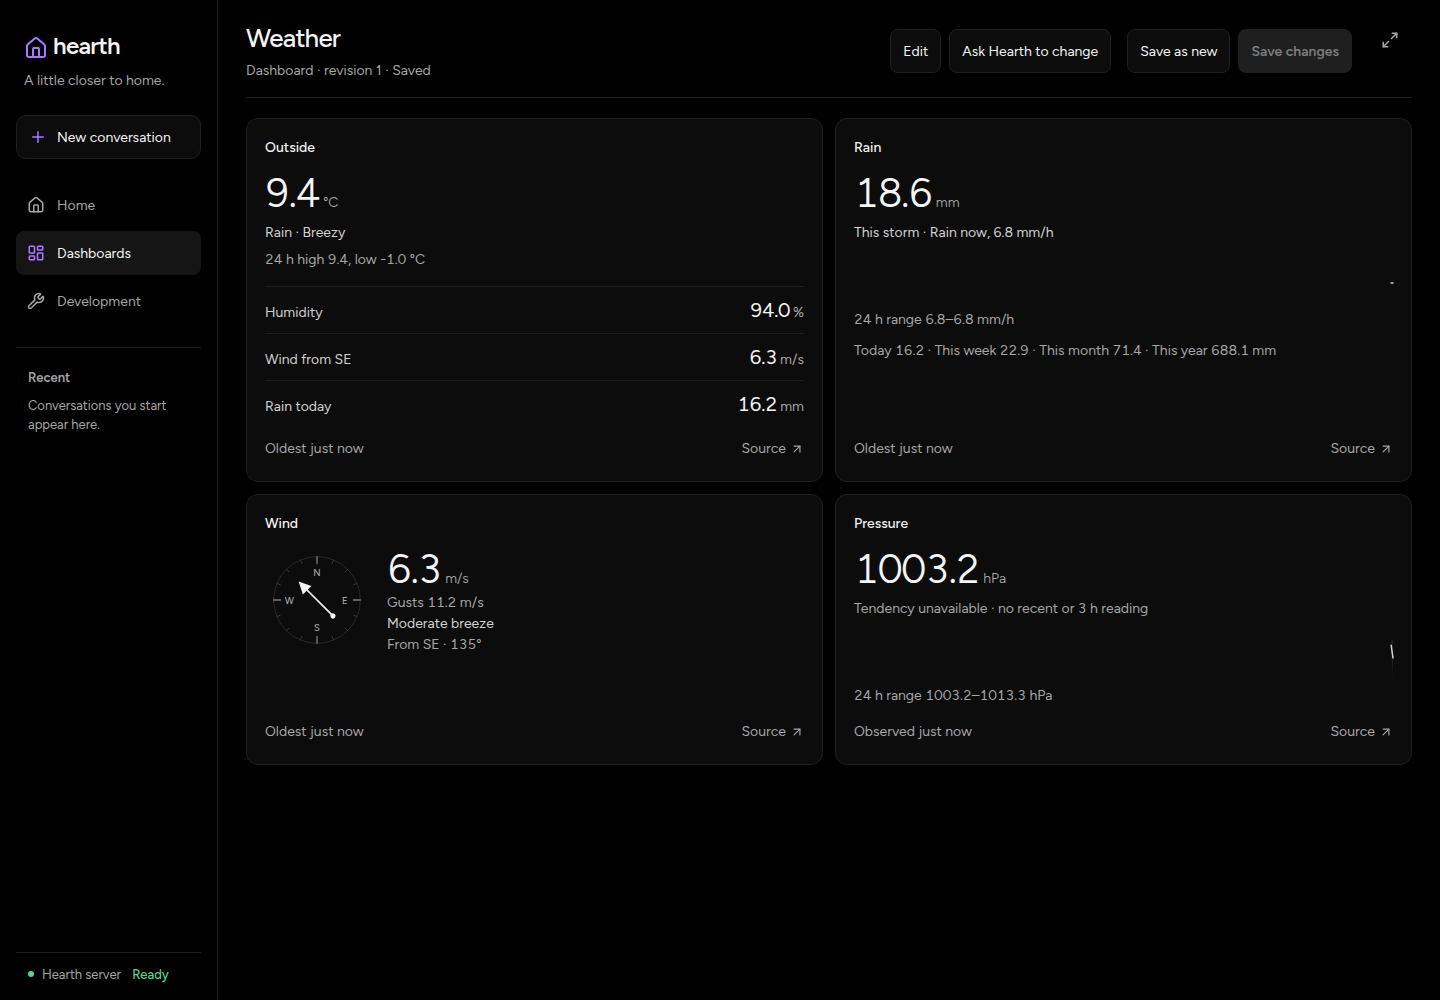
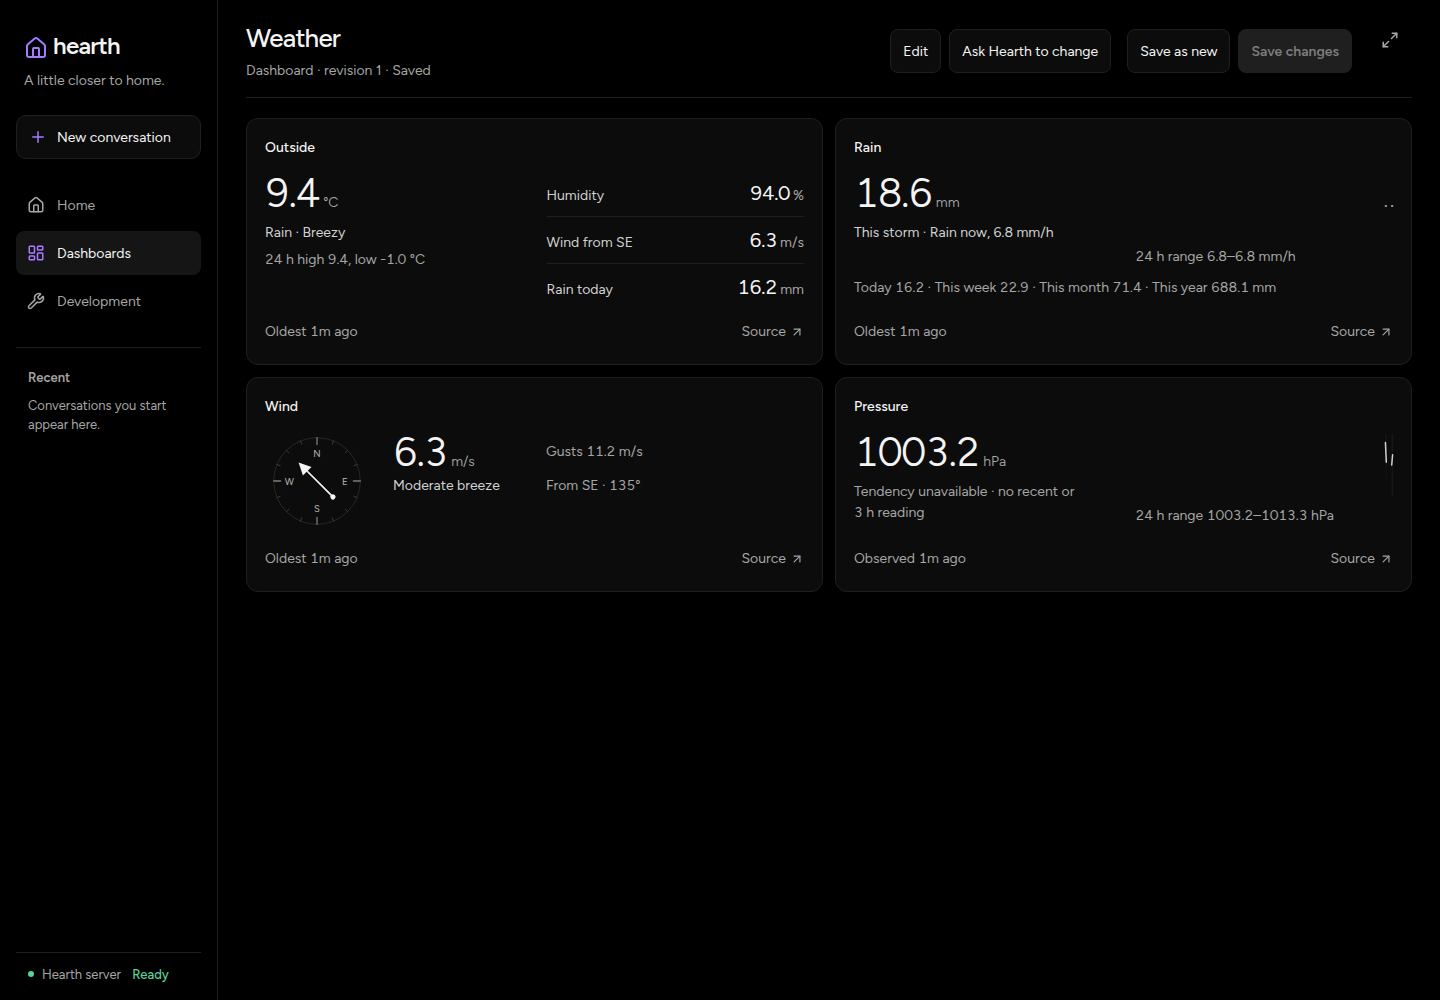
fix(views): use wide weather cards for side-by-side readings
Split lead readings and supporting details at 460px of card content width. Keep stacked reading order on narrow cards and reserve Wind's intrinsic value width before assigning detail space. Weather trends grow within their detail zone; shared Metric charts and aligned footers remain unchanged.

diff --git a/web/src/index.css b/web/src/index.css
@@ -482,7 +482,11 @@
 .view-switch-group p[data-failed] { color:var(--error); }
 .view-editor label.view-checkbox { display:flex; align-items:center; gap:8px; }
 .view-editor .view-checkbox input { width:auto; }
-/* Weather cards: words and derived values sit under the 40px reading; other readings follow as compact rows. */
+/*
+ * Weather cards: words and derived values sit under the 40px reading; other readings follow as compact rows.
+ * At a 460px content width the details move beside the lead into the right half, so a card uses its
+ * width instead of its height and cards in one grid row end at similar heights.
+ */
 .view-weather { container-type:inline-size; }
 .view-weather .view-card-body { display:flex; flex-direction:column; gap:6px; }
 .view-weather-conditions { color:var(--gray-9); font-size:14px; line-height:1.5; text-wrap:balance; }
@@ -494,9 +498,15 @@
 .view-weather-rows .view-rows { margin-block:0 -4px; }
 .view-weather-slot-status { display:flex; flex-wrap:wrap; align-items:baseline; gap:2px 8px; color:var(--quiet); font-size:14px; line-height:1.5; }
 .view-weather-slot-status .view-status { flex-basis:100%; }
-.view-weather-wind-lead { display:flex; align-items:center; gap:18px; }
-.view-weather-wind-lead > div { min-width:0; }
-.view-weather-compass { flex-shrink:0; width:104px; height:104px; overflow:visible; }
+.view-weather-zones, .view-weather-main, .view-weather-aside { display:flex; flex-direction:column; gap:6px; min-width:0; }
+.view-weather-wind { display:grid; grid-template-columns:minmax(0,1fr); grid-template-areas:"reading" "gust" "force" "direction" "rows"; gap:0 18px; }
+.view-weather-wind:has(> .view-weather-compass) { grid-template-columns:auto minmax(0,1fr); grid-template-areas:"compass reading" "compass gust" "compass force" "compass direction" "rows rows"; }
+.view-weather-wind-reading { grid-area:reading; min-width:0; }
+.view-weather-wind-gust { grid-area:gust; }
+.view-weather-wind-force { grid-area:force; }
+.view-weather-wind-direction { grid-area:direction; }
+.view-weather-wind-rows { grid-area:rows; }
+.view-weather-compass { grid-area:compass; align-self:center; width:104px; height:104px; overflow:visible; }
 .view-weather-compass-ring { fill:none; stroke:var(--gray-4); stroke-width:1; }
 .view-weather-compass-major { stroke:var(--gray-7); stroke-width:1.5; stroke-linecap:round; }
 .view-weather-compass-minor { stroke:var(--gray-5); stroke-width:1; stroke-linecap:round; }
@@ -507,7 +517,18 @@
 .view-weather-compass-calm { fill:none; stroke:var(--gray-7); stroke-width:1.5; }
 .view-weather-compass[data-value=dimmed] .view-weather-compass-arrow line { stroke:var(--gray-7); stroke-dasharray:3 3; }
 .view-weather-compass[data-value=dimmed] .view-weather-compass-arrow path, .view-weather-compass[data-value=dimmed] .view-weather-compass-arrow circle { fill:var(--gray-7); }
-@container(max-width:290px) { .view-weather-compass { width:76px; height:76px; } .view-weather-wind-lead { gap:14px; } }
+@container(max-width:290px) { .view-weather-compass { width:76px; height:76px; } .view-weather-wind { column-gap:14px; } }
+@container(min-width:460px) {
+  .view-weather-zones:has(> .view-weather-aside) { display:grid; grid-template-columns:repeat(2,minmax(0,1fr)); gap:24px; align-items:start; }
+  .view-weather-aside > .view-weather-rows { margin-top:0; border-top:0; }
+  .view-weather-aside > .view-trend { margin-top:0; }
+  .view-weather-aside .view-trend-plot, .view-weather-aside .view-trend svg { height:72px; }
+  .view-weather-wind { grid-template-columns:minmax(max-content,1fr) minmax(0,1fr); grid-template-areas:"reading gust" "force direction" ". rows"; column-gap:24px; align-items:center; }
+  /* Reserve the reading's intrinsic width; long values must not collide with details. */
+  .view-weather-wind:has(> .view-weather-compass) { grid-template-columns:auto minmax(max-content,1fr) minmax(0,2fr); grid-template-areas:"compass reading gust" "compass force direction" "compass . rows"; }
+  .view-weather-wind-gust, .view-weather-wind-direction { overflow-wrap:anywhere; }
+  .view-weather-wind-rows { margin-top:4px; }
+}
 .view-weather-tendency { display:flex; flex-wrap:wrap; align-items:center; gap:2px 6px; color:var(--gray-9); font-size:14px; line-height:1.5; font-variant-numeric:tabular-nums; }
 .view-weather-tendency svg { width:16px; height:16px; flex-shrink:0; }
 .view-weather-tendency span { color:var(--quiet); }

diff --git a/web/src/features/views/cards/pressure/Pressure.tsx b/web/src/features/views/cards/pressure/Pressure.tsx
@@ -7,7 +7,7 @@ import { cardStatus, type CardStatus } from "../status";
 import { Trend, trendMethod } from "../metric/Trend";
 import { pressureTendency } from "../weather/formulas";
 import { shownData, threeHourChange } from "../weather/readings";
-import { useWeatherReads, WeatherReading } from "../weather/WeatherParts";
+import { useWeatherReads, WeatherReading, WeatherZones } from "../weather/WeatherParts";
 import { pressureSchema } from "./schema";
 
 type Props = z.infer<typeof pressureSchema>;
@@ -26,7 +26,7 @@ function TendencyLine({ data, history, canonical, status }: { data?: MetricData;
   if (!change || !hPa || change.nowStart !== hPa.nowStart || change.thenStart !== hPa.thenStart) {
     const loading = history.status === "loading" || canonical.status === "loading";
     const failed = history.status === "error" || canonical.status === "error";
-    const words = loading ? "Loading the last 3 hours…" : failed ? "Couldn't load the last 3 hours." : "Tendency unavailable · no recent or 3 h reading";
+    const words = loading ? "Loading the last 3 hours…" : failed ? "Couldn't load the last 3 hours." : "Tendency unavailable · no recent or 3\u00a0h reading";
     return <p className="view-weather-detail">{words}</p>;
   }
   const tendency = pressureTendency(hPa.now - hPa.then);
@@ -36,7 +36,7 @@ function TendencyLine({ data, history, canonical, status }: { data?: MetricData;
   const sign = shown > 0 ? "+" : shown < 0 ? "−" : "±";
   return <p className="view-weather-tendency" data-value={status.value}>
     <Icon aria-hidden="true" />{tendency.words}
-    <span>{sign}{Math.abs(shown).toFixed(digits)} {history.data!.format.unit_label} in 3 h</span>
+    <span>{sign}{Math.abs(shown).toFixed(digits)} {history.data!.format.unit_label} in 3&nbsp;h</span>
   </p>;
 }
 
@@ -59,9 +59,10 @@ export function BoundPressure({ label, source, trend }: Props) {
       <p>The tendency compares the latest minute with the minute nearest three hours earlier, using Met Office thresholds: steady below 0.1 hPa, slowly to 1.5 hPa, quickly above 3.5 hPa and very rapidly above 6 hPa. With no reading within ten minutes of three hours ago, there is no tendency.</p>
       {trend && trendMethod(trend)}
     </>}>
-    <WeatherReading data={data} status={status} />
-    <TendencyLine data={data} history={recent} canonical={canonical} status={status} />
-    {(recent.refreshFailed || canonical.refreshFailed) && <StatusList entries={[{ key: "refresh-failed", tone: "warn", text: "Couldn't refresh pressure history" }]} />}
-    {trend && history && status.value !== "empty" && <Trend window={trend} resource={history} dimmed={status.value === "dimmed"} />}
+    <WeatherZones aside={trend && history && status.value !== "empty" && <Trend window={trend} resource={history} dimmed={status.value === "dimmed"} />}>
+      <WeatherReading data={data} status={status} />
+      <TendencyLine data={data} history={recent} canonical={canonical} status={status} />
+      {(recent.refreshFailed || canonical.refreshFailed) && <StatusList entries={[{ key: "refresh-failed", tone: "warn", text: "Couldn't refresh pressure history" }]} />}
+    </WeatherZones>
   </CardFrame>;
 }

diff --git a/web/src/features/views/cards/rain/Rain.tsx b/web/src/features/views/cards/rain/Rain.tsx
@@ -6,7 +6,7 @@ import { listArrivals, oldestObservation, rowSources, rowStates } from "../readi
 import { Trend, trendMethod } from "../metric/Trend";
 import { rainWord } from "../weather/formulas";
 import { canonicalValue, derivedTreatment, formatReading, shownData } from "../weather/readings";
-import { SlotStatus, slotRows, useWeatherReads, WeatherReading, type WeatherRead } from "../weather/WeatherParts";
+import { SlotStatus, slotRows, useWeatherReads, WeatherReading, WeatherZones, type WeatherRead } from "../weather/WeatherParts";
 import { rainPeriods, rainSchema, type RainPeriod } from "./schema";
 
 type Props = z.infer<typeof rainSchema>;
@@ -58,17 +58,18 @@ export function BoundRain({ label, rate, storm, totals, trend }: Props) {
       <p>Totals are the station's own counters, which it resets for each storm, day, week, month and year.</p>
       {trend && trendMethod(trend)}
     </>}>
-    {stormLeads ? <>
-      <WeatherReading data={stormData} status={status} />
-      <p className="view-weather-conditions" data-value={derivedTreatment(stormReading, rateReading)}>This storm{!rateData ? "" : mmPerHour === undefined ? ` · Rate ${formatReading(rateData)}` : word ? ` · ${word} now, ${formatReading(rateData)}` : " · Stopped for now"}</p>
-    </> : rateData && mmPerHour === 0 ? <>
-      <WeatherReading status={rateStatus} words="Dry" />
-      <p className="view-weather-detail" data-value={rateStatus.value}>Rate {formatReading(rateData)}</p>
-    </> : <>
-      <WeatherReading data={rateData} status={rateStatus} />
-      {word && <p className="view-weather-conditions" data-value={rateStatus.value}>{word}</p>}
-    </>}
-    {trend && history && rateStatus.value !== "empty" && <Trend window={trend} resource={history} dimmed={rateStatus.value === "dimmed"} />}
+    <WeatherZones aside={trend && history && rateStatus.value !== "empty" && <Trend window={trend} resource={history} dimmed={rateStatus.value === "dimmed"} />}>
+      {stormLeads ? <>
+        <WeatherReading data={stormData} status={status} />
+        <p className="view-weather-conditions" data-value={derivedTreatment(stormReading, rateReading)}>This storm{!rateData ? "" : mmPerHour === undefined ? ` · Rate ${formatReading(rateData)}` : word ? ` · ${word} now, ${formatReading(rateData)}` : " · Stopped for now"}</p>
+      </> : rateData && mmPerHour === 0 ? <>
+        <WeatherReading status={rateStatus} words="Dry" />
+        <p className="view-weather-detail" data-value={rateStatus.value}>Rate {formatReading(rateData)}</p>
+      </> : <>
+        <WeatherReading data={rateData} status={rateStatus} />
+        {word && <p className="view-weather-conditions" data-value={rateStatus.value}>{word}</p>}
+      </>}
+    </WeatherZones>
     {totalsLine.length > 0 && <p className="view-weather-inline">
       {totalsLine.map((total, index) => <span key={total.period} data-value={cardStatus(total.resource).value}>
         {index > 0 && " · "}{periodNames[total.period]} {sharedUnit ? total.data!.value.toFixed(total.data!.format.fraction_digits) : formatReading(total.data!)}

diff --git a/web/src/features/views/cards/outside-now/OutsideNow.tsx b/web/src/features/views/cards/outside-now/OutsideNow.tsx
@@ -4,7 +4,7 @@ import { cardStatus } from "../status";
 import { listArrivals, oldestObservation, ReadingRows, rowSources, rowStates } from "../reading-list/ReadingRows";
 import { beaufort, compassPoint, rainWord, windWord } from "../weather/formulas";
 import { canonicalValue, derivedTreatment, extremes, shownData } from "../weather/readings";
-import { SlotStatus, slotRows, useWeatherReads, WeatherReading } from "../weather/WeatherParts";
+import { SlotStatus, slotRows, useWeatherReads, WeatherReading, WeatherZones } from "../weather/WeatherParts";
 import { outsideNowSchema } from "./schema";
 
 type Props = z.infer<typeof outsideNowSchema>;
@@ -58,13 +58,14 @@ export function BoundOutsideNow({ label, temperature, humidity, wind, wind_direc
           <div key={label}><dt>{label}</dt><dd><time dateTime={at}>{new Date(at).toLocaleString([], { year: "numeric", month: "short", day: "numeric", hour: "numeric", minute: "2-digit", second: "2-digit", timeZoneName: "short" })}</time></dd></div>)}
       </dl>}
     </>}>
-    <WeatherReading data={data} status={status} />
-    {words.length > 0 && <p className="view-weather-conditions" data-value={wordTreatment}>{words.join(" · ")}</p>}
-    {data && <p className="view-weather-detail">{range
-      ? `${history.refreshFailed ? "Last loaded 24 h:" : "24 h"} high ${range.high.toFixed(digits)}, low ${range.low.toFixed(digits)} ${history.data!.format.unit_label}`
-      : history.status === "loading" ? "Loading the last 24 hours…" : history.status === "error" ? "Couldn't load the last 24 hours." : "No history in the last 24 h."}</p>}
-    {history.refreshFailed && <StatusList entries={[{ key: "refresh-failed", tone: "warn", text: "Couldn't refresh temperature history" }]} />}
-    {rows.length > 0 && <div className="view-weather-rows"><ReadingRows rows={rows} /></div>}
+    <WeatherZones aside={rows.length > 0 && <div className="view-weather-rows"><ReadingRows rows={rows} /></div>}>
+      <WeatherReading data={data} status={status} />
+      {words.length > 0 && <p className="view-weather-conditions" data-value={wordTreatment}>{words.join(" · ")}</p>}
+      {data && <p className="view-weather-detail">{range
+        ? `${history.refreshFailed ? "Last loaded 24 h:" : "24 h"} high ${range.high.toFixed(digits)}, low ${range.low.toFixed(digits)} ${history.data!.format.unit_label}`
+        : history.status === "loading" ? "Loading the last 24 hours…" : history.status === "error" ? "Couldn't load the last 24 hours." : "No history in the last 24 h."}</p>}
+      {history.refreshFailed && <StatusList entries={[{ key: "refresh-failed", tone: "warn", text: "Couldn't refresh temperature history" }]} />}
+    </WeatherZones>
     {!directionRow && <SlotStatus name="Wind direction" resource={reads.current("direction")} />}
     {!rateRow && <SlotStatus name="Rain rate" resource={reads.current("rate")} />}
   </CardFrame>;

diff --git a/web/src/features/views/cards/wind/Wind.tsx b/web/src/features/views/cards/wind/Wind.tsx
@@ -50,16 +50,16 @@ export function BoundWind({ label, speed, gust, direction, max_gust }: Props) {
       <p>Words follow the Beaufort scale for the current wind speed.</p>
       <p>Direction is where the wind comes from; the arrow points where it blows. There is no direction history, because averaging compass bearings gives wrong answers.</p>
     </>}>
-    <div className="view-weather-wind-lead">
+    <div className="view-weather-wind">
       {direction && <Compass bearing={bearing} calm={calm} dimmed={directionReading !== undefined && cardStatus(directionReading).value === "dimmed"} />}
-      <div>
+      <div className="view-weather-wind-reading">
         <WeatherReading data={shownData(reading)} status={status} />
-        {gustReading && <p className="view-weather-detail" data-value={cardStatus(gustReading).value}>Gusts {gustData ? formatReading(gustData) : "—"}</p>}
-        {force !== undefined && <p className="view-weather-conditions" data-value={status.value}>{beaufortNames[force]}</p>}
-        {from && !calm && <p className="view-weather-detail" data-value={derivedTreatment(reading, directionReading)}>From {from.short} · {Math.round(bearing!)}°<span className="sr-only">, from the {from.words}</span></p>}
       </div>
+      {gustReading && <p className="view-weather-detail view-weather-wind-gust" data-value={cardStatus(gustReading).value}>Gusts {gustData ? formatReading(gustData) : "—"}</p>}
+      {force !== undefined && <p className="view-weather-conditions view-weather-wind-force" data-value={status.value}>{beaufortNames[force]}</p>}
+      {from && !calm && <p className="view-weather-detail view-weather-wind-direction" data-value={derivedTreatment(reading, directionReading)}>From {from.short} · {Math.round(bearing!)}°<span className="sr-only">, from the {from.words}</span></p>}
+      {maxRow.length > 0 && <div className="view-weather-rows view-weather-wind-rows"><ReadingRows rows={maxRow} /></div>}
     </div>
-    {maxRow.length > 0 && <div className="view-weather-rows"><ReadingRows rows={maxRow} /></div>}
     <SlotStatus name="Gusts" resource={gustReading} />
     <SlotStatus name="Wind direction" resource={directionReading} />
   </CardFrame>;

diff --git a/web/src/features/views/cards/weather/WeatherParts.tsx b/web/src/features/views/cards/weather/WeatherParts.tsx
@@ -1,3 +1,4 @@
+import type { ReactNode } from "react";
 import { useNumericReads } from "../../bindings/registry";
 import type { MetricData, NumericSource, ReadUnits, Resolved, SeriesData, SeriesWindow } from "../../bindings/types";
 import { StatusList } from "../CardFrame";
@@ -37,6 +38,17 @@ export function WeatherReading({ data, status, words }: { data?: MetricData; sta
     {words ?? (data ? data.value.toFixed(data.format.fraction_digits) : "—")}
     {!words && data?.format.unit_label && <small>{data.format.unit_label}</small>}
   </p>;
+}
+
+/**
+ * The lead reading and its words, with the card's other readings beside them
+ * in a wide card and below them otherwise. Without details there is one zone.
+ */
+export function WeatherZones({ aside, children }: { aside?: ReactNode; children: ReactNode }) {
+  return <div className="view-weather-zones">
+    <div className="view-weather-main">{children}</div>
+    {aside ? <div className="view-weather-aside">{aside}</div> : null}
+  </div>;
 }
 
 /** Statuses of a reading that has no row of its own, named so readers know which value they describe. */

diff --git a/web/src/features/views/cards/weather/views-weather-cards.test.tsx b/web/src/features/views/cards/weather/views-weather-cards.test.tsx
@@ -245,6 +245,15 @@ it.each(["unavailable", "disabled"].flatMap(state => [
   expect(api.posts).toHaveLength(0);
 });
 
+it("keeps speed, gusts, Beaufort words, and direction in reading order", async () => {
+  core(station());
+  await mount(<BoundWind speed={source(103, "hearth.speed/v1")} gust={source(111, "hearth.speed/v1")} direction={source(104, "hearth.numericsensor/v1")} />);
+  const text = card("Wind").textContent!;
+  const order = ["6.3m/s", "Gusts 11.2 m/s", "Moderate breeze", "From SE"].map(reading => text.indexOf(reading));
+  expect(order.every(index => index >= 0)).toBe(true);
+  expect(order).toEqual([...order].sort((a, b) => a - b));
+});
+
 it("draws where the wind comes from, but no direction when calm or missing", async () => {
   const speed = source(103, "hearth.speed/v1");
   const direction = source(104, "hearth.numericsensor/v1");

diff --git a/docs/design/weather-cards/restored-conditions/README.md b/docs/design/weather-cards/restored-conditions/README.md
@@ -25,6 +25,23 @@ against the same database and republishes the same readings.
 | [US desktop](us-desktop.png) | The same dashboard in a US household |
 | [Metric phone](metric-phone.png) | 390×900; Outside and Rain in one column |
 | [Metric phone Wind](metric-phone-wind.png) | The Wind card at phone width |
+| [Metric four columns](metric-four-columns.png) | Narrow cards keep their stacked layout |
+| [Metric three columns](metric-three-columns.png) | Three-column layout at 1440×1000 |
+
+The desktop and phone captures were refreshed for the responsive layout
+follow-up to `6fbffe8`. At 1440px, each two-column card has enough room to put
+the lead reading beside its details. Weather trend plots grow from 44px to
+72px in that layout. At 1100px, two-column cards stack their content, as do
+the four-column cards and phone cards. The 40px reading scale, Source control,
+and grid's aligned footers stay unchanged.
+
+The final captures use headless Chromium against the saved production
+dashboard. Additional checks cover Wind with no optional slots, no compass,
+and a maximum-gust row. A US `100.0 mi/h` reading fits at exactly 460px of
+content width without overlapping details. On the two-column 1440px dashboard,
+the first row is 247px tall (previously 363px), and the second is 215px
+(previously 270px). Three- and four-column cards stack at the captured width;
+the breakpoint follows the card's width, not the column count.
 
 Both households show the same words because they come from the canonical
 readings. A US card shows **Moderate breeze** for 14.1 mi/h. Applying the
@@ -32,9 +49,12 @@ Beaufort thresholds to that mi/h value would give **Near gale**. In the US
 household, Rain words a 0.27 in/h rate as **Rain now**. Applied to 0.27, the
 mm/h thresholds would give **Light rain**.
 
-The database is fresh, so Pressure has no reading from three hours earlier and
-states **Tendency unavailable**. The simulator cannot backdate Observations.
+The database has less than three hours of history, so Pressure has no reading
+from three hours earlier and states **Tendency unavailable**. The simulator
+cannot backdate Observations.
 Component tests cover the worded tendency in both unit systems.
 
-The browser HAR contains history queries only; three are `units=canonical`.
-It has no Commands or dashboard writes.
+The original restoration run's browser HAR contains history queries only;
+three are `units=canonical`. It has no Commands or dashboard writes. The layout
+follow-up refreshed screenshots without a new HAR and does not claim a new
+interaction journey.

diff --git a/DESIGN.md b/DESIGN.md
@@ -262,6 +262,15 @@ Derived values and words dim when any reading they use is dimmed. Pressure state
 16px arrow icon and the signed change, or says why there is no tendency.
 Method and thresholds belong in Source.
 
+A weather card with at least 460px of content width uses its width rather
+than its height. The lead reading and its words fill the left half; rows, the
+trend, or Wind's gusts and direction take the right half, 24px away, so the
+right halves line up down a grid column. The trend there grows to a 72px plot.
+Wind keeps its compass to the left of the reading and reserves enough width
+for the displayed value before allocating space to details. Rain's totals
+sentence spans both halves below. Narrower cards keep the single column;
+the card's available width, not its grid's column count, chooses the layout.
+
 Forecast cards show modeled predictions, not station readings, and are the
 only cards that draw sky conditions. Daily rows are 44px tall: the day at 14px
 (**Today** first), a 28px condition icon, the precipitation chance at 13px
